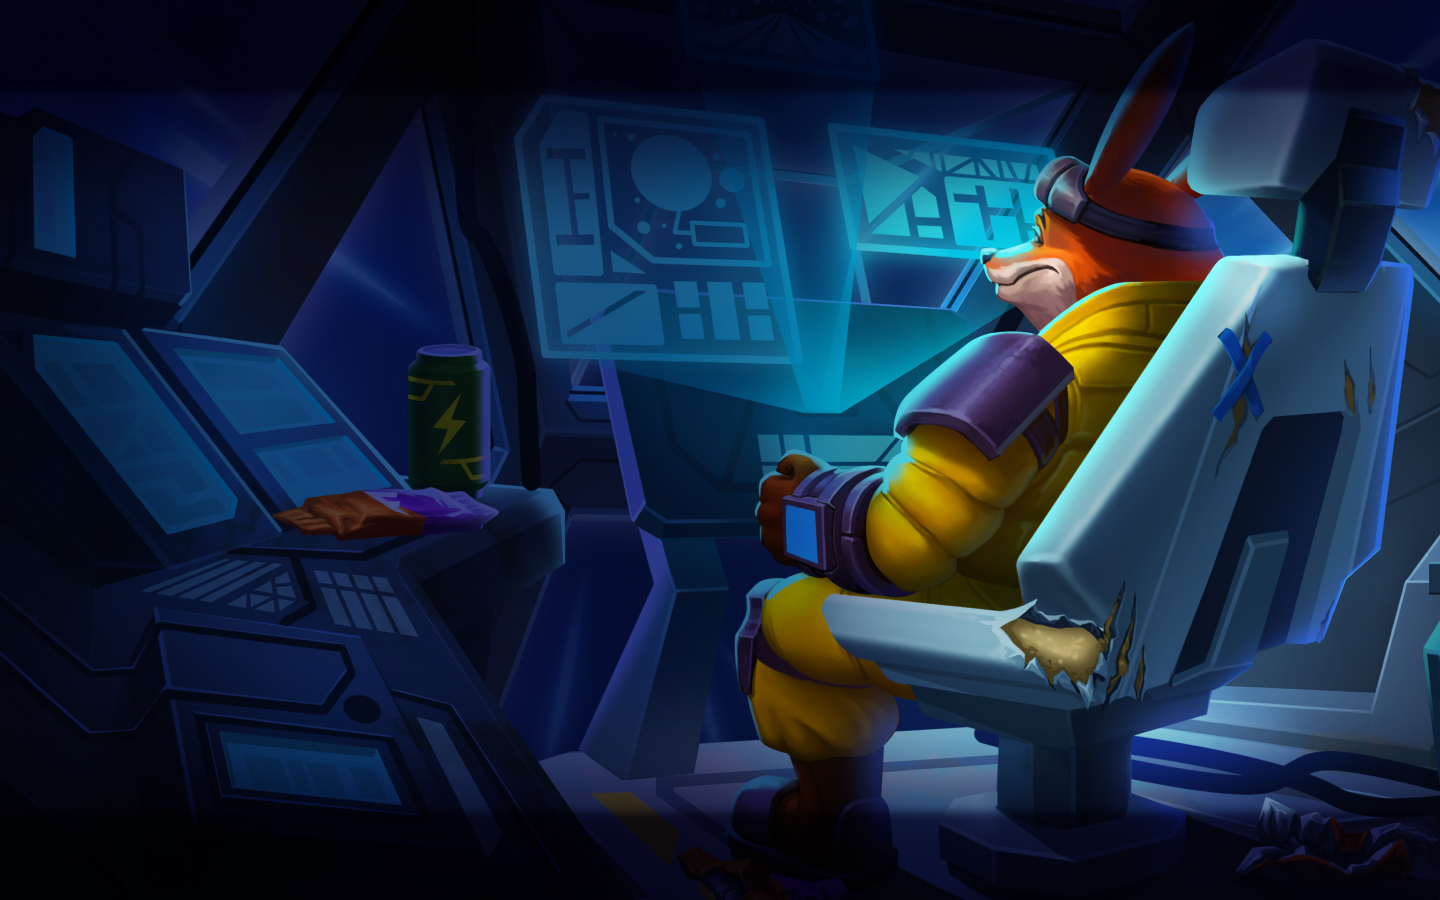
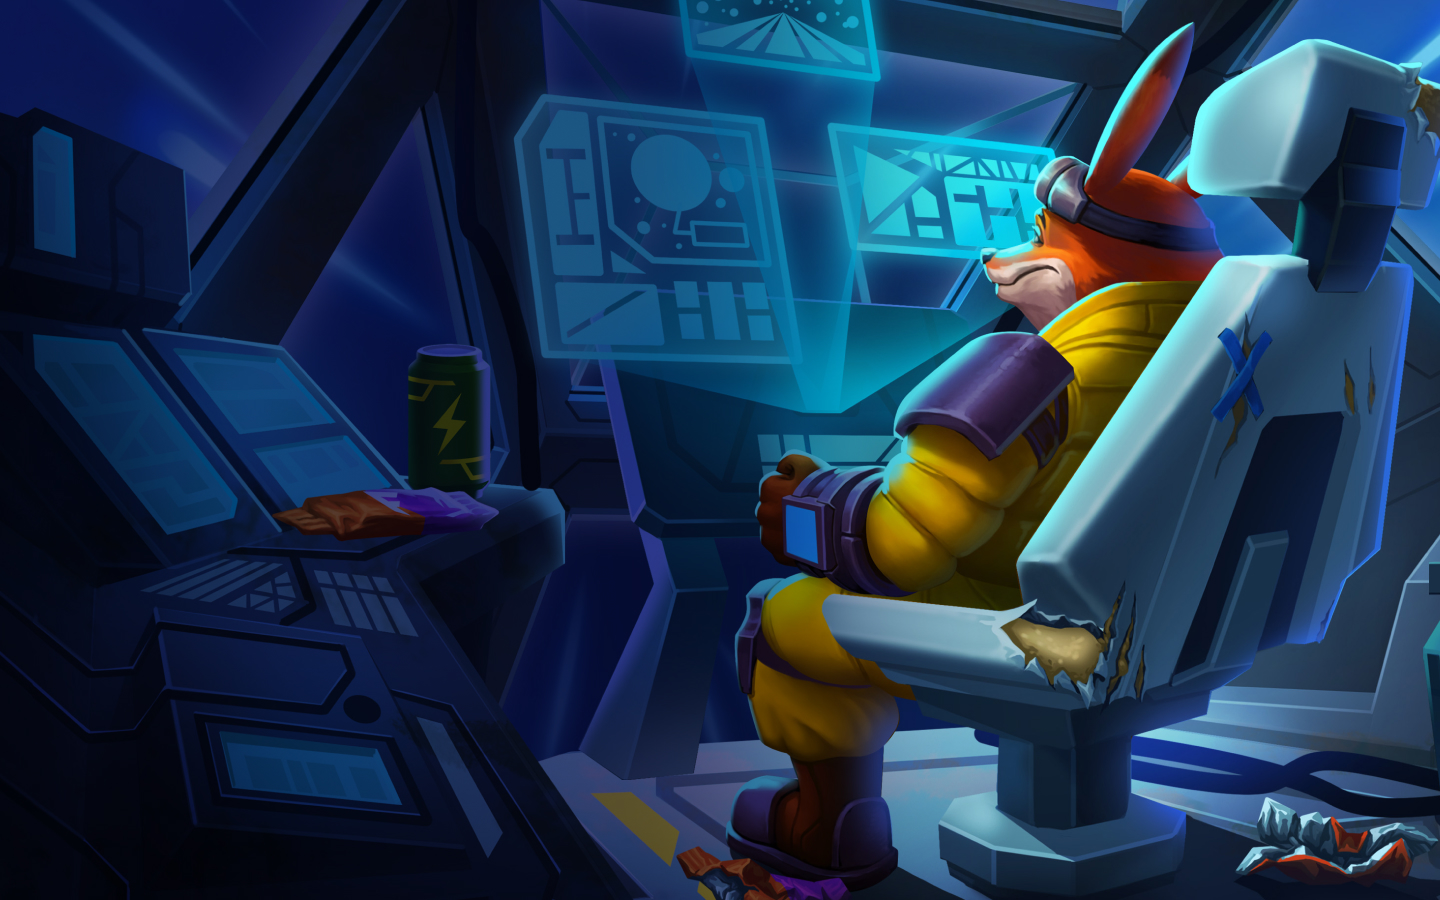
updated

diff --git a/dist/css/style.min.css b/dist/css/style.min.css
@@ -1,1 +1,1 @@
-:root{--color-white:rgba(255, 255, 255, 1);--color-light-blue:rgba(151, 177, 207, 1);--color-bg-blue:rgba(78, 75, 101, 0.5);--color-light-green:rgba(41, 219, 144, 1);--color-green:rgba(7, 53, 46, 1)}*,::after,::before{margin:0;padding:0;-webkit-box-sizing:border-box;box-sizing:border-box}html{scroll-behavior:smooth}a{text-decoration:none}img{display:block}ol,ul{list-style:none}button,input,select{outline:0;background:0 0;border:none;font-family:inherit}button{cursor:pointer}body{font-family:"Fauna Pro",sans-serif;font-weight:400;font-size:18px;line-height:1.2;-webkit-font-smoothing:antialiased;font-smoothing:antialiased;-moz-osx-font-smoothing:grayscale;overflow-x:hidden;width:100%;display:-webkit-box;display:-ms-flexbox;display:flex;-webkit-box-orient:vertical;-webkit-box-direction:normal;-ms-flex-direction:column;flex-direction:column;min-height:100dvh;background:url(../img/main-bg.jpg) no-repeat center top/cover}.container{max-width:1860px;width:100%;padding:0 20px;margin:0 auto}.header{position:relative}.header__wrapper{display:-webkit-box;display:-ms-flexbox;display:flex;-webkit-box-align:center;-ms-flex-align:center;align-items:center;-webkit-box-pack:justify;-ms-flex-pack:justify;justify-content:space-between;gap:20px;border-bottom:2px solid var(--color-white);padding:61px 0 26px 42px;position:relative}.header__logo{max-width:215px;width:100%;overflow:hidden}.header__logo img{width:100%;-o-object-fit:contain;object-fit:contain}.header__logo--mobile{display:none}.header__nav{display:-webkit-box;display:-ms-flexbox;display:flex;-webkit-box-align:center;-ms-flex-align:center;align-items:center;position:absolute;top:50%;left:31%;-webkit-transform:translate(-36%,-50%);-ms-transform:translate(-36%,-50%);transform:translate(-36%,-50%);height:100%}.header__nav li{position:relative;padding:0 45px;height:100%;width:100%;display:-webkit-box;display:-ms-flexbox;display:flex;-webkit-box-align:center;-ms-flex-align:center;align-items:center;-webkit-box-pack:center;-ms-flex-pack:center;justify-content:center}.header__nav li:hover::after,.header__nav li:hover::before{opacity:1}.header__nav li:hover a{color:var(--color-white)}.header__nav li::after{content:"";position:absolute;width:calc(100% + 2px);height:100%;display:block;top:-2px;left:0;background:-webkit-gradient(linear,left top,left bottom,from(rgba(40,97,92,.6)),color-stop(rgba(40,97,92,.4)),color-stop(rgba(40,97,92,.2)),color-stop(rgba(40,97,92,.1)),to(rgba(40,97,92,0)));background:linear-gradient(to bottom,rgba(40,97,92,.6),rgba(40,97,92,.4),rgba(40,97,92,.2),rgba(40,97,92,.1),rgba(40,97,92,0));opacity:0;-webkit-transition:all .2s ease;transition:all .2s ease}.header__nav li::before{content:"";position:absolute;width:100%;height:2px;display:block;left:50%;-webkit-transform:translateX(-50%);-ms-transform:translateX(-50%);transform:translateX(-50%);bottom:-2px;background-color:#37dd97;-webkit-transition:all .2s ease;transition:all .2s ease;opacity:0;transition:all .2s ease}.header__nav a{color:var(--color-light-blue);font-size:20px;line-height:1;text-transform:uppercase;font-weight:200;white-space:nowrap;position:relative;margin-top:37px;z-index:10;position:relative;-webkit-transition:all .2s ease;transition:all .2s ease}.main{-webkit-box-flex:1;-ms-flex:1;flex:1;padding:20px 0;display:-webkit-box;display:-ms-flexbox;display:flex;-webkit-box-align:center;-ms-flex-align:center;align-items:center;-webkit-box-pack:center;-ms-flex-pack:center;justify-content:center}.main__content{max-width:593px;width:100%;margin-left:72px;margin-top:-10px}.main__content--title{color:var(--color-white);font-size:30px;line-height:1.1;text-transform:uppercase;text-align:center;margin-bottom:45px;font-weight:700}.main__content--title span{display:block}.main__content--suptitle{margin-bottom:25px!important}.main__content--subtitle{font-weight:200;font-size:20px;line-height:1.1;color:#c2d3e6;margin-bottom:45px;text-align:center}.main__content--btn{display:block;min-width:299px;height:83px;padding:20px;letter-spacing:1px;display:-webkit-box;display:-ms-flexbox;display:flex;-webkit-box-pack:center;-ms-flex-pack:center;justify-content:center;-webkit-box-align:center;-ms-flex-align:center;align-items:center;color:var(--color-white);font-size:30px;line-height:1.1;text-transform:uppercase;background:-webkit-gradient(linear,left top,left bottom,from(#65f2c2),to(#34e19c));background:linear-gradient(180deg,#65f2c2,#34e19c);color:var(--color-green);margin:0 auto;width:-webkit-fit-content;width:-moz-fit-content;width:fit-content;-webkit-box-shadow:0 -21px 31.9px 0 #29db90 inset;box-shadow:0 -21px 31.9px 0 #29db90 inset;-webkit-box-shadow:0 21px 31.9px 0 #62f1bc inset;box-shadow:0 21px 31.9px 0 #62f1bc inset;-webkit-box-shadow:0 2px 4.6px 0 #9ff6da inset;box-shadow:0 2px 4.6px 0 #9ff6da inset;-webkit-box-shadow:0 -1px 4.6px 0 #9ff6da inset;box-shadow:0 -1px 4.6px 0 #9ff6da inset;-webkit-box-shadow:0 1px 2px 0 rgba(63,63,78,.31);box-shadow:0 1px 2px 0 rgba(63,63,78,.31);clip-path:polygon(15px 0,100% 0,100% calc(100% - 15px),calc(100% - 15px) 100%,0 100%,0 15px);position:relative;z-index:1}.main__content--btn span{margin-top:3px;margin-left:12px;position:relative;z-index:5}.main__content--btn::before{content:"";position:absolute;inset:0;background:-webkit-gradient(linear,left top,left bottom,from(#72f7d9),color-stop(#43cfa2),color-stop(#23c18f),to(#1bd097));background:linear-gradient(180deg,#72f7d9,#43cfa2,#23c18f,#1bd097);opacity:0;-webkit-transition:opacity .3s ease-in-out;transition:opacity .3s ease-in-out;z-index:0}.main__content--btn::after{content:"";position:absolute;inset:0;background:-webkit-gradient(linear,left top,left bottom,from(#0c8b5a),to(#4ce0aa));background:linear-gradient(180deg,#0c8b5a,#4ce0aa);opacity:0;-webkit-transition:opacity .1s;transition:opacity .1s;z-index:0}.main__content--btn:hover::before{opacity:1}.main__content--btn:active::after{opacity:1}.main__content--btn:active::before{-webkit-transition:none;transition:none;opacity:0}.footer__wrapper{padding:20px 20px 25px 23px;border-top:1px solid var(--color-white);display:-webkit-box;display:-ms-flexbox;display:flex;-webkit-box-align:center;-ms-flex-align:center;align-items:center;-webkit-box-pack:justify;-ms-flex-pack:justify;justify-content:space-between}.footer__social{display:-webkit-box;display:-ms-flexbox;display:flex;-webkit-box-align:center;-ms-flex-align:center;align-items:center}.footer__social--link{display:-webkit-box;display:-ms-flexbox;display:flex;-webkit-box-orient:vertical;-webkit-box-direction:normal;-ms-flex-direction:column;flex-direction:column;-webkit-box-align:center;-ms-flex-align:center;align-items:center;gap:7px;text-align:center;margin-right:40px;color:#97b1cf;-webkit-transition:all .3s ease-in-out;transition:all .3s ease-in-out;width:42px}.footer__social--link svg{width:100%;display:block}.footer__social--link:nth-child(3){width:48px}.footer__social--link:nth-child(4){width:35px}.footer__social--link p{font-size:12px;line-height:1.1;font-weight:700;text-align:center}.footer__social--link:hover{color:var(--color-white);text-decoration:underline}.footer__content{font-size:26px;line-height:1;color:var(--color-white);font-weight:300;text-transform:uppercase}@media (max-width:1550.98px){body{background-image:url(../img/main-bg-md.jpg)}.container{padding:0 45px}.header__wrapper{padding:40px 0 16px 20px}.header__logo{max-width:175px}.header__nav{left:34.35%;-webkit-transform:translate(-37%,-50%);-ms-transform:translate(-37%,-50%);transform:translate(-37%,-50%);gap:15px}.header__nav li{padding:0 40px}.header__nav a{font-size:16px;margin-top:33px}.main__content{max-width:475px;margin-left:70px;margin-top:20px}.main__content--title{font-size:23px;margin-bottom:57px}.main__content--suptitle{margin-bottom:30px!important}.main__content--subtitle{font-size:16px;margin-bottom:51px}.main__content--btn{min-width:209px;height:61px;font-size:23px}.footer__wrapper{padding:16px 20px 16px 23px}.footer__social--link{gap:12px}.footer__social--link p{font-size:10px}}@media (max-width:1200.98px){.container{padding:0 15px}.header__wrapper{padding-left:0}.header__nav{left:unset;-webkit-transform:translateX(0) translateY(-50%);-ms-transform:translateX(0) translateY(-50%);transform:translateX(0) translateY(-50%);right:0}.header__nav li{padding:0 10px}}@media (max-width:575.98px){body{background-image:url(../img/main-bg-sm.jpg)}.header__wrapper{padding:37px 0 16px 7px;border-width:1px}.header__logo{max-width:24px}.header__logo--desktop{display:none}.header__logo--mobile{display:block}.header__nav{left:47%;-webkit-transform:translate(-50%,-50%);-ms-transform:translate(-50%,-50%);transform:translate(-50%,-50%);right:unset;gap:0}.header__nav a{font-size:12px;margin-top:20px}.main{-webkit-box-align:end;-ms-flex-align:end;align-items:flex-end}.main .container{padding:0 13px 67px}.main__content{margin-top:0;margin-left:8px;max-width:395px}.main__content--title{font-size:18px;margin-bottom:18px}.main__content--suptitle{margin-bottom:12px!important}.main__content--subtitle{font-size:12px;margin-bottom:18px}.main__content--btn{min-width:165px;height:55px;font-size:18px;padding:10px}.footer__wrapper{padding:10px 10px 18px}.footer__social--link{gap:10px;margin-right:25px}.footer__social--link{width:35px}.footer__social--link:nth-child(3){width:39px}.footer__social--link:nth-child(4){width:25px}}@media (max-width:360.98px){.container{padding:0 5px!important}.header__wrapper{padding:15px 0 15px 7px}.header__nav{left:unset;-webkit-transform:translateX(0) translateY(-50%);-ms-transform:translateX(0) translateY(-50%);transform:translateX(0) translateY(-50%);right:0}.header__nav a{margin-top:10px}.main .container{padding-bottom:25px}.main__content{margin-left:0}.footer__wrapper{padding:5px 5px 10px}.footer__social--link{gap:5px}.footer__social--link{width:25px}.footer__social--link:nth-child(3){width:29px}.footer__social--link:nth-child(4){width:20px}}
+:root{--color-white:rgba(255, 255, 255, 1);--color-light-blue:rgba(151, 177, 207, 1);--color-bg-blue:rgba(78, 75, 101, 0.5);--color-light-green:rgba(41, 219, 144, 1);--color-green:rgba(7, 53, 46, 1)}*,::after,::before{margin:0;padding:0;-webkit-box-sizing:border-box;box-sizing:border-box}html{scroll-behavior:smooth}a{text-decoration:none}img{display:block}ol,ul{list-style:none}button,input,select{outline:0;background:0 0;border:none;font-family:inherit}button{cursor:pointer}body{font-family:"Fauna Pro",sans-serif;font-weight:400;font-size:18px;line-height:1.2;-webkit-font-smoothing:antialiased;font-smoothing:antialiased;-moz-osx-font-smoothing:grayscale;overflow-x:hidden;width:100%;display:-webkit-box;display:-ms-flexbox;display:flex;-webkit-box-orient:vertical;-webkit-box-direction:normal;-ms-flex-direction:column;flex-direction:column;min-height:100dvh;background:url(../img/main-bg.jpg) no-repeat center top/cover;position:relative}body::after{content:"";width:100%;display:block;background:-webkit-gradient(linear,left top,left bottom,from(#000),to(rgba(0,0,0,0)));background:linear-gradient(180deg,#000,rgba(0,0,0,0));width:100%;height:25dvh;position:absolute;top:0;left:0;z-index:-1}body::before{content:"";width:100%;display:block;background:-webkit-gradient(linear,left top,left bottom,from(rgba(0,0,0,0)),to(rgba(0,0,0,.8)));background:linear-gradient(180deg,rgba(0,0,0,0),rgba(0,0,0,.8));width:100%;height:25dvh;position:absolute;bottom:0;left:0;z-index:-1}.container{max-width:1860px;width:100%;padding:0 20px;margin:0 auto}.header{position:relative}.header__wrapper{display:-webkit-box;display:-ms-flexbox;display:flex;-webkit-box-align:center;-ms-flex-align:center;align-items:center;-webkit-box-pack:justify;-ms-flex-pack:justify;justify-content:space-between;gap:20px;border-bottom:2px solid var(--color-white);padding:61px 0 26px 42px;position:relative}.header__logo{max-width:215px;width:100%;overflow:hidden}.header__logo img{width:100%;-o-object-fit:contain;object-fit:contain}.header__logo--mobile{display:none}.header__nav{display:-webkit-box;display:-ms-flexbox;display:flex;-webkit-box-align:center;-ms-flex-align:center;align-items:center;position:absolute;top:50%;left:31%;-webkit-transform:translate(-36%,-50%);-ms-transform:translate(-36%,-50%);transform:translate(-36%,-50%);height:100%}.header__nav li{position:relative;padding:0 45px;height:100%;width:100%;display:-webkit-box;display:-ms-flexbox;display:flex;-webkit-box-align:center;-ms-flex-align:center;align-items:center;-webkit-box-pack:center;-ms-flex-pack:center;justify-content:center}.header__nav li:hover::after,.header__nav li:hover::before{opacity:1}.header__nav li:hover a{color:var(--color-white)}.header__nav li::after{content:"";position:absolute;width:calc(100% + 2px);height:100%;display:block;top:-2px;left:0;background:-webkit-gradient(linear,left top,left bottom,from(rgba(40,97,92,.6)),color-stop(rgba(40,97,92,.4)),color-stop(rgba(40,97,92,.2)),color-stop(rgba(40,97,92,.1)),to(rgba(40,97,92,0)));background:linear-gradient(to bottom,rgba(40,97,92,.6),rgba(40,97,92,.4),rgba(40,97,92,.2),rgba(40,97,92,.1),rgba(40,97,92,0));opacity:0;-webkit-transition:all .2s ease;transition:all .2s ease}.header__nav li::before{content:"";position:absolute;width:100%;height:2px;display:block;left:50%;-webkit-transform:translateX(-50%);-ms-transform:translateX(-50%);transform:translateX(-50%);bottom:-2px;background-color:#37dd97;-webkit-transition:all .2s ease;transition:all .2s ease;opacity:0;transition:all .2s ease}.header__nav a{color:var(--color-light-blue);font-size:20px;line-height:1;text-transform:uppercase;font-weight:200;white-space:nowrap;position:relative;margin-top:37px;z-index:10;position:relative;-webkit-transition:all .2s ease;transition:all .2s ease}.main{-webkit-box-flex:1;-ms-flex:1;flex:1;padding:20px 0;display:-webkit-box;display:-ms-flexbox;display:flex;-webkit-box-align:center;-ms-flex-align:center;align-items:center;-webkit-box-pack:center;-ms-flex-pack:center;justify-content:center}.main__content{max-width:593px;width:100%;margin-left:72px;margin-top:-10px}.main__content--title{color:var(--color-white);font-size:30px;line-height:1.1;text-transform:uppercase;text-align:center;margin-bottom:45px;font-weight:700}.main__content--title span{display:block}.main__content--suptitle{margin-bottom:25px!important}.main__content--subtitle{font-weight:200;font-size:20px;line-height:1.1;color:#c2d3e6;margin-bottom:45px;text-align:center}.main__content--btn{display:block;min-width:299px;height:83px;padding:20px;letter-spacing:1px;display:-webkit-box;display:-ms-flexbox;display:flex;-webkit-box-pack:center;-ms-flex-pack:center;justify-content:center;-webkit-box-align:center;-ms-flex-align:center;align-items:center;color:var(--color-white);font-size:30px;line-height:1.1;text-transform:uppercase;background:-webkit-gradient(linear,left top,left bottom,from(#65f2c2),to(#34e19c));background:linear-gradient(180deg,#65f2c2,#34e19c);color:var(--color-green);margin:0 auto;width:-webkit-fit-content;width:-moz-fit-content;width:fit-content;-webkit-box-shadow:0 -21px 31.9px 0 #29db90 inset;box-shadow:0 -21px 31.9px 0 #29db90 inset;-webkit-box-shadow:0 21px 31.9px 0 #62f1bc inset;box-shadow:0 21px 31.9px 0 #62f1bc inset;-webkit-box-shadow:0 2px 4.6px 0 #9ff6da inset;box-shadow:0 2px 4.6px 0 #9ff6da inset;-webkit-box-shadow:0 -1px 4.6px 0 #9ff6da inset;box-shadow:0 -1px 4.6px 0 #9ff6da inset;-webkit-box-shadow:0 1px 2px 0 rgba(63,63,78,.31);box-shadow:0 1px 2px 0 rgba(63,63,78,.31);clip-path:polygon(15px 0,100% 0,100% calc(100% - 15px),calc(100% - 15px) 100%,0 100%,0 15px);position:relative;z-index:1}.main__content--btn span{margin-top:3px;margin-left:12px;position:relative;z-index:5}.main__content--btn::before{content:"";position:absolute;inset:0;background:-webkit-gradient(linear,left top,left bottom,from(#72f7d9),color-stop(#43cfa2),color-stop(#23c18f),to(#1bd097));background:linear-gradient(180deg,#72f7d9,#43cfa2,#23c18f,#1bd097);opacity:0;-webkit-transition:opacity .3s ease-in-out;transition:opacity .3s ease-in-out;z-index:0}.main__content--btn::after{content:"";position:absolute;inset:0;background:-webkit-gradient(linear,left top,left bottom,from(#0c8b5a),to(#4ce0aa));background:linear-gradient(180deg,#0c8b5a,#4ce0aa);opacity:0;-webkit-transition:opacity .1s;transition:opacity .1s;z-index:0}.main__content--btn:hover::before{opacity:1}.main__content--btn:active::after{opacity:1}.main__content--btn:active::before{-webkit-transition:none;transition:none;opacity:0}.footer__wrapper{padding:20px 20px 25px 23px;border-top:1px solid var(--color-white);display:-webkit-box;display:-ms-flexbox;display:flex;-webkit-box-align:center;-ms-flex-align:center;align-items:center;-webkit-box-pack:justify;-ms-flex-pack:justify;justify-content:space-between}.footer__social{display:-webkit-box;display:-ms-flexbox;display:flex;-webkit-box-align:center;-ms-flex-align:center;align-items:center}.footer__social--link{display:-webkit-box;display:-ms-flexbox;display:flex;-webkit-box-orient:vertical;-webkit-box-direction:normal;-ms-flex-direction:column;flex-direction:column;-webkit-box-align:center;-ms-flex-align:center;align-items:center;gap:7px;text-align:center;margin-right:40px;color:#97b1cf;-webkit-transition:all .3s ease-in-out;transition:all .3s ease-in-out;width:42px}.footer__social--link svg{width:100%;display:block}.footer__social--link:nth-child(3){width:48px}.footer__social--link:nth-child(4){width:35px}.footer__social--link p{font-size:12px;line-height:1.1;font-weight:700;text-align:center}.footer__social--link:hover{color:var(--color-white);text-decoration:underline}.footer__content{font-size:26px;line-height:1;color:var(--color-white);font-weight:300;text-transform:uppercase}@media (max-width:1550.98px){body{background-image:url(../img/main-bg-md.jpg)}.container{padding:0 45px}.header__wrapper{padding:40px 0 16px 20px}.header__logo{max-width:175px}.header__nav{left:34.35%;-webkit-transform:translate(-37%,-50%);-ms-transform:translate(-37%,-50%);transform:translate(-37%,-50%);gap:15px}.header__nav li{padding:0 40px}.header__nav a{font-size:16px;margin-top:33px}.main__content{max-width:475px;margin-left:70px;margin-top:20px}.main__content--title{font-size:23px;margin-bottom:57px}.main__content--suptitle{margin-bottom:30px!important}.main__content--subtitle{font-size:16px;margin-bottom:51px}.main__content--btn{min-width:209px;height:61px;font-size:23px}.footer__wrapper{padding:16px 20px 16px 23px}.footer__social--link{gap:12px}.footer__social--link p{font-size:10px}}@media (max-width:1200.98px){.container{padding:0 15px}.header__wrapper{padding-left:0}.header__nav{left:unset;-webkit-transform:translateX(0) translateY(-50%);-ms-transform:translateX(0) translateY(-50%);transform:translateX(0) translateY(-50%);right:0}.header__nav li{padding:0 10px}}@media (max-width:575.98px){body{background-image:url(../img/main-bg-sm.jpg)}.header__wrapper{padding:37px 0 16px 7px;border-width:1px}.header__logo{max-width:24px}.header__logo--desktop{display:none}.header__logo--mobile{display:block}.header__nav{left:47%;-webkit-transform:translate(-50%,-50%);-ms-transform:translate(-50%,-50%);transform:translate(-50%,-50%);right:unset;gap:0}.header__nav a{font-size:12px;margin-top:20px}.main{-webkit-box-align:end;-ms-flex-align:end;align-items:flex-end}.main .container{padding:0 13px 67px}.main__content{margin-top:0;margin-left:8px;max-width:395px}.main__content--title{font-size:18px;margin-bottom:18px}.main__content--suptitle{margin-bottom:12px!important}.main__content--subtitle{font-size:12px;margin-bottom:18px}.main__content--btn{min-width:165px;height:55px;font-size:18px;padding:10px}.footer__wrapper{padding:10px 10px 18px}.footer__social--link{gap:10px;margin-right:25px}.footer__social--link{width:35px}.footer__social--link:nth-child(3){width:39px}.footer__social--link:nth-child(4){width:25px}}@media (max-width:360.98px){.container{padding:0 5px!important}.header__wrapper{padding:15px 0 15px 7px}.header__nav{left:unset;-webkit-transform:translateX(0) translateY(-50%);-ms-transform:translateX(0) translateY(-50%);transform:translateX(0) translateY(-50%);right:0}.header__nav a{margin-top:10px}.main .container{padding-bottom:25px}.main__content{margin-left:0}.footer__wrapper{padding:5px 5px 10px}.footer__social--link{gap:5px}.footer__social--link{width:25px}.footer__social--link:nth-child(3){width:29px}.footer__social--link:nth-child(4){width:20px}}

diff --git a/dist/css/style.css b/dist/css/style.css
@@ -64,6 +64,35 @@ body {
           flex-direction: column;
   min-height: 100dvh;
   background: url("../img/main-bg.jpg") no-repeat center top/cover;
+  position: relative;
+}
+
+body::after {
+  content: "";
+  width: 100%;
+  display: block;
+  background: -webkit-gradient(linear, left top, left bottom, from(rgb(0, 0, 0)), to(rgba(0, 0, 0, 0)));
+  background: linear-gradient(180deg, rgb(0, 0, 0), rgba(0, 0, 0, 0));
+  width: 100%;
+  height: 25dvh;
+  position: absolute;
+  top: 0;
+  left: 0;
+  z-index: -1;
+}
+
+body::before {
+  content: "";
+  width: 100%;
+  display: block;
+  background: -webkit-gradient(linear, left top, left bottom, from(rgba(0, 0, 0, 0)), to(rgba(0, 0, 0, 0.8)));
+  background: linear-gradient(180deg, rgba(0, 0, 0, 0), rgba(0, 0, 0, 0.8));
+  width: 100%;
+  height: 25dvh;
+  position: absolute;
+  bottom: 0;
+  left: 0;
+  z-index: -1;
 }
 
 .container {

diff --git a/#src/scss/style.scss b/#src/scss/style.scss
@@ -70,6 +70,33 @@ body {
   @include mobile {
     background-image: url('../img/main-bg-sm.jpg');
   }
+
+  position: relative;
+  &::after {
+    content: '';
+    width: 100%;
+    display: block;
+    background: linear-gradient(180deg, rgba(0, 0, 0, 1), rgba(0, 0, 0, 0));
+    width: 100%;
+    height: 25dvh;
+    position: absolute;
+    top: 0;
+    left: 0;
+    z-index: -1;
+  }
+
+  &::before {
+    content: '';
+    width: 100%;
+    display: block;
+    background: linear-gradient(180deg, rgba(0, 0, 0, 0), rgba(0, 0, 0, 0.8));
+    width: 100%;
+    height: 25dvh;
+    position: absolute;
+    bottom: 0;
+    left: 0;
+    z-index: -1;
+  }
 }
 
 .container {
